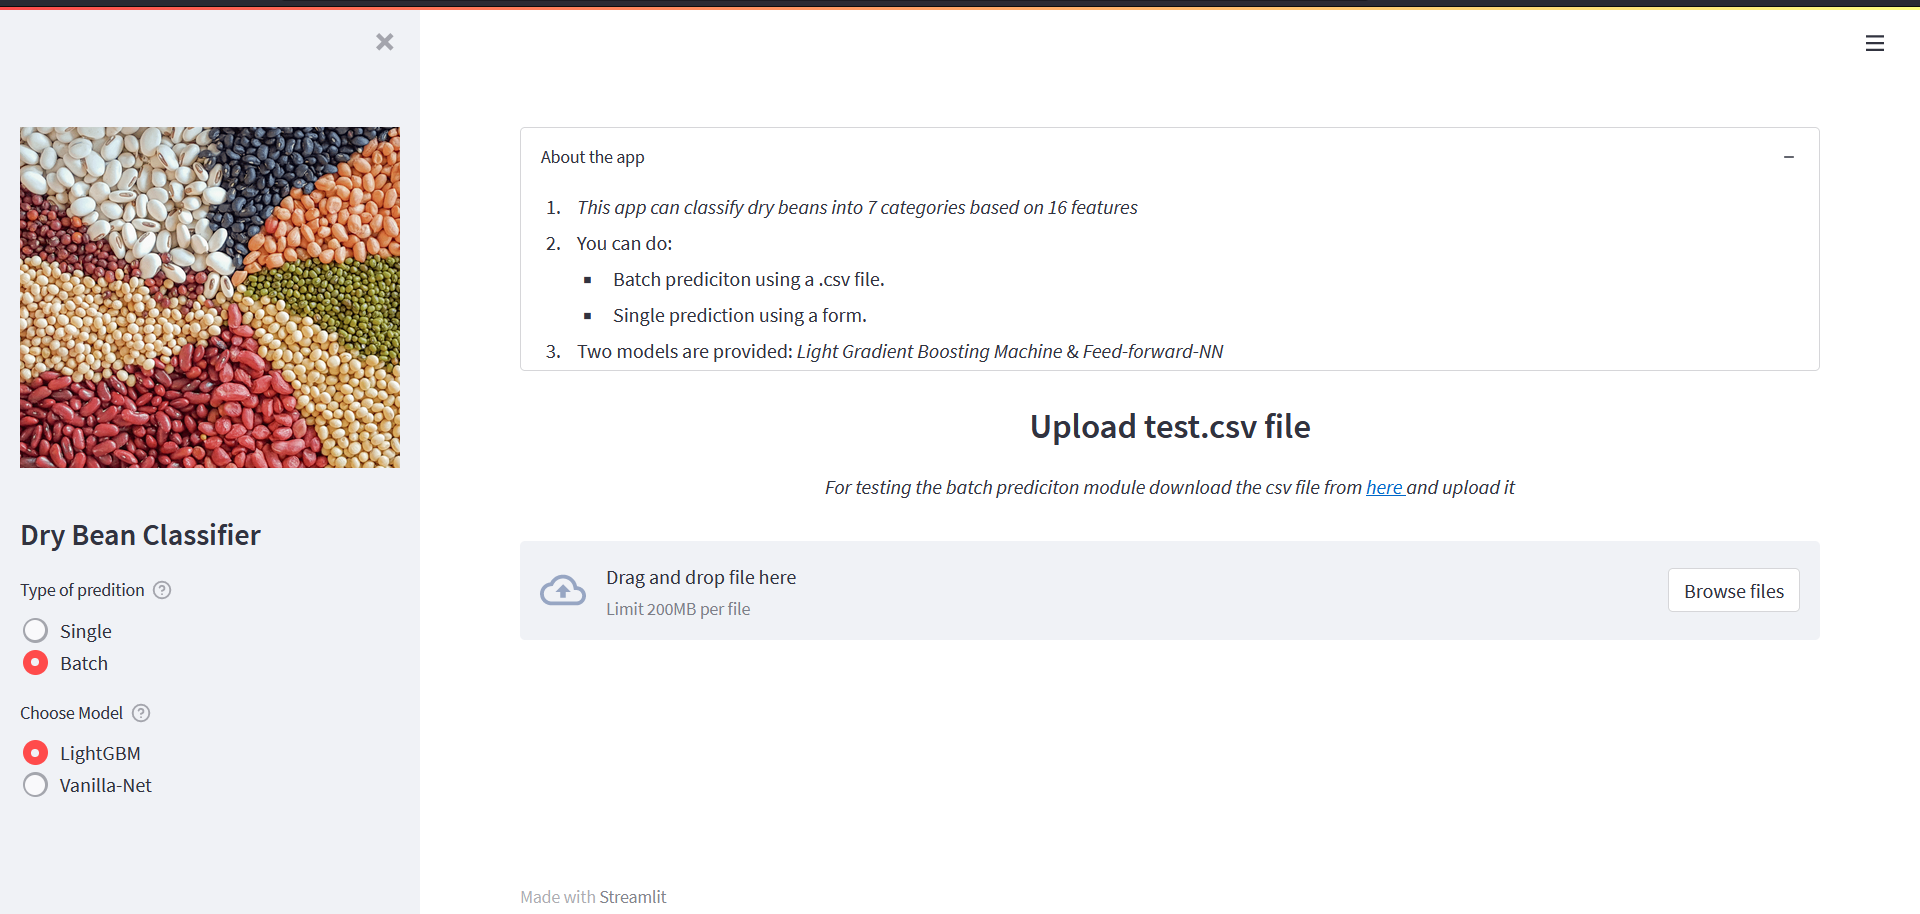
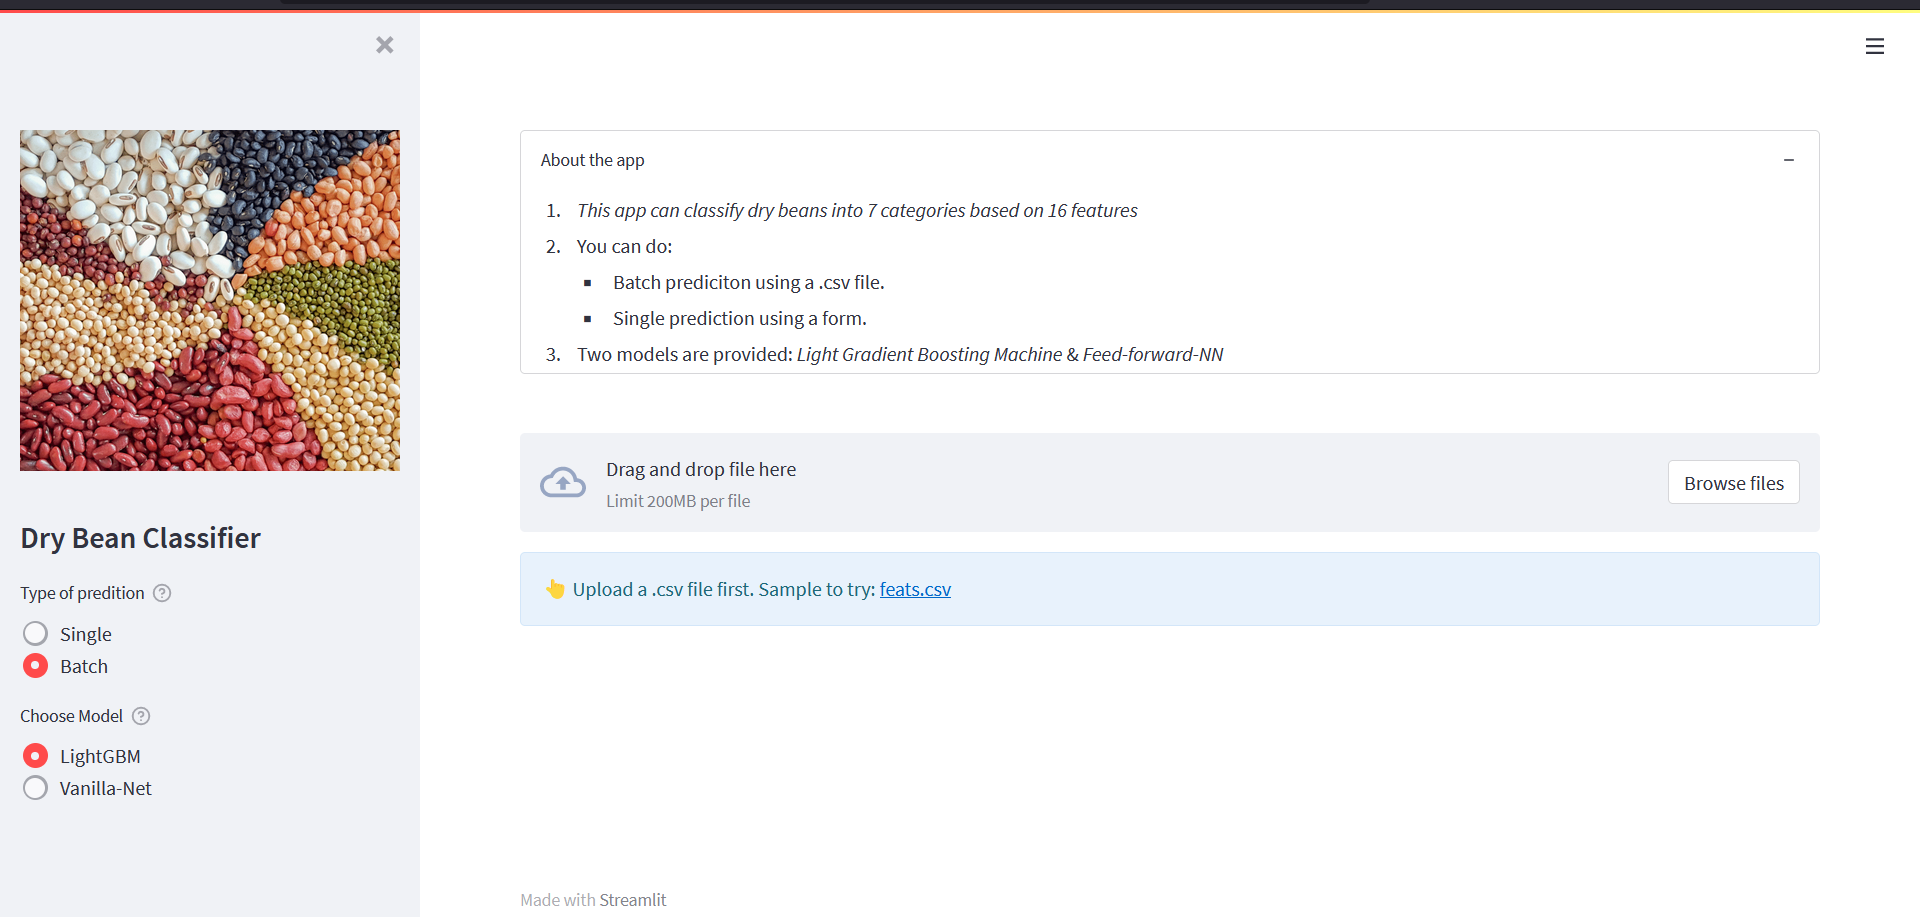
Updates to `app.py` & README.md

diff --git a/app.py b/app.py
@@ -267,24 +267,16 @@ if pred_type == "Single":
         )
 
 else:
-    st.markdown(
-        "<h3><center>Upload test.csv file</center></h3>", unsafe_allow_html=True
-    )
-
-    url = "https://feat-files.s3.us-east-2.amazonaws.com/full_feats_test_tiny.csv"
-    st.markdown(
-        f"""
-        <center>
-            <i>
-                For testing the batch prediciton module download the csv file from 
-                <a href={url}> here </a> and upload it
-            </i>
-        </center>
-        """,
-        unsafe_allow_html=True,
-    )
 
     file_uploader = st.file_uploader("")
+
+    url = "https://feat-files.s3.us-east-2.amazonaws.com/full_feats_test_tiny.csv"
+
+    st.info(
+        f"""
+        👆 Upload a .csv file first. Sample to try: [feats.csv]({url})   
+        """
+    )
 
     if file_uploader:
         df = pd.read_csv(file_uploader)
